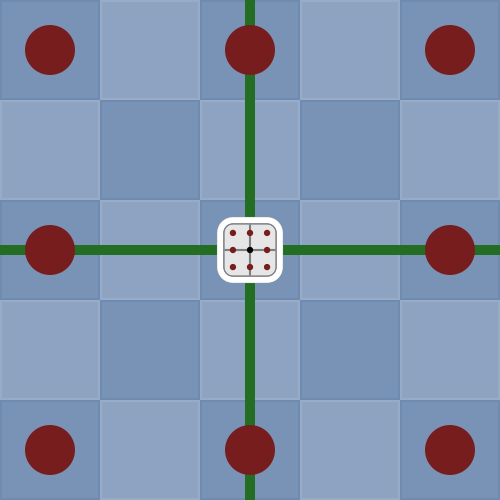
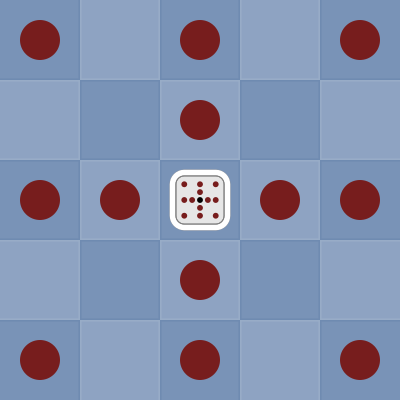
Updated Borderlands docs (#2106)
* Updated Borderlands docs.

* Updated Borderlands docs.

* Update borderlands.md

* Updated Borderlands docs

* Updated Borderlands docs.

* Updated Borderlands docs.

* Update borderlands.md

* Updated boards.

diff --git a/static/docs/borderlands.md b/static/docs/borderlands.md
@@ -25,35 +25,32 @@ Borderlands is a chess variant created by dpldgr in 2025 for PyChess' Variant De
 
 Borderlands draws inspiration from many classic variants (Chess, Shogi, Xiangqi, and Courier Chess) and fuses them together in a unique and creative way. Pieces are in general more powerful than those found in the classic variants.
 
-- The Chief (the "royal" piece) is very mobile, but has restricted movement which allows it to be cornered and captured.
 - Sliding pieces (Rooks, Bishops) and jump capturing pieces (Pao, Vao) are merged to create more powerful pieces (Archer, Slinger).
-- Most pieces are promotable, giving incentive to keep them on the board as every piece can help win the game by cornering and capturing enemy Chiefs or occupying Village Squares.
-- Players can't just push their pieces forward or they leave themselves exposed to a quick loss by conquest.
+- Most pieces are promotable, giving incentive to keep them on the board as every piece can help win the game by cornering and capturing enemy Chiefs.
 - There is a wide variety of pieces with different strengths and weaknesses.
 
 ## Historical Setting
 Borderlands is not set in a specific place or culture. Rather, it serves as an abstract representation of warfare as it evolved during the early Classical Antiquity period (approximately 500–100 BCE), following the decline of chariot warfare. It reflects the tactical emphasis on infantry formations, skirmishers, and emerging combined-arms warfare typical of that era.
 
 ## General Rules
-1.	White has the first move.
-2.	All pieces are capturable and are permanently removed from play upon capture.
-3.	There is no checkmate or stalemate in Borderlands.
-4.	There is no castling in Borderlands. On any move, a Chief can instead make a non-capturing leap two squares in any direction within their movement zone.
-5.	Pieces promote immediately upon reaching their Promotion Zone/Square.
-6.	Warriors starting on the 3rd rank may make a double step on their first move, and may be captured en passant on the enemy's next move.
+1.  White has the first move.
+2.  All pieces are capturable and are permanently removed from play upon capture.
+3.  There is no checkmate or stalemate in Borderlands.
+4.  There is no castling in Borderlands.
+5.  Pieces promote immediately upon reaching their Promotion Zone/Square.
+6.  Warriors starting on the 3rd rank may make a double step on their first move, and may be captured en passant on the enemy's next move.
 
 ## Win Conditions
-1.	Win by Surrender: Capture both enemy Chiefs and the enemy immediately surrenders.
-2.	Win by Conquest: Occupy all four Village Squares for two consecutive moves (one move by each player).
+1. Capture both enemy Chiefs and the enemy immediately surrenders.
 
 ## Draw Conditions
-1.	No Progress: 150 moves (75 by each player) without a capture or promotion.
-2.	Impasse: the game is unable to progress due to neither side having a realistic chance of occupying all four Village Squares or capturing both enemy Chiefs.
+1.  No Progress: 80 moves (40 by each player) without a capture or promotion.
+2.  Impasse: the game is unable to progress due to neither side having a realistic chance of capturing both enemy Chiefs.
 
 ## Lose Conditions
-1.	No Legal Moves: if a player cannot make a legal move they lose the game.
-2.	Perpetual Check: (TODO: confirm this works for Chiefs).
-3.	Move Repetition: repeating a position for the 5th time.
+1.  No Legal Moves: if a player cannot make a legal move they lose the game.
+2.  Perpetual Check: (TODO: confirm this works for Chiefs).
+3.  Move Repetition: repeating a position for the 5th time.
 
 ## The Board
 The empty board and initial position for Borderlands are as follows:
@@ -68,70 +65,36 @@ There are a number of important regions and squares in Borderlands:
 
 <table id="region_table" style="border-style: solid; border-width: 1px 0px; border-collapse: collapse;">
 <tbody>
-	<tr class="line_t"><td class="zone_highlight" rowspan="3"><img src="../static/images/BorderlandsGuide/WhiteTerritory.png" alt="White Territory"></td><td class="region_name">White Territory</td></tr>
-	<tr><td class="region_area">Ranks 1-5</td></tr>
-	<tr><td>All White pieces start the game within this region.</td></tr>
-	<tr class="line_t"><td class="zone_highlight" rowspan="3"><img src="../static/images/BorderlandsGuide/WhiteVillageZone.png" alt="White Village Zone"></td><td class="region_name">White Village Zone</td></tr>
-	<tr><td>Ranks 1-3</td></tr>
-	<tr><td>The majority of White pieces start the game in this region.</td></tr>
-	<tr class="line_t"><td class="zone_highlight" rowspan="3"><img src="../static/images/BorderlandsGuide/WhiteIncursionZone.png" alt="White Incursion Zone"></td><td class="region_name">White Incursion Zone</td></tr>
-	<tr><td>Ranks 6-7</td></tr>
-	<tr><td>White Marauders must come into play in this region. Black Warriors initially guard every single square of it.</td></tr>
-	<tr class="line_t"><td class="zone_highlight" rowspan="3"><img src="../static/images/BorderlandsGuide/WhitePromotionZone.png" alt="White Promotion Zone"></td><td class="region_name">White Promotion Zone</td></tr>
-	<tr><td>Ranks 8-10</td></tr>
-	<tr><td>All promotable White pieces (except the Lion) can promote anywhere within this region.</td></tr>
-	<tr class="line_t"><td class="zone_highlight" rowspan="2"><img src="../static/images/BorderlandsGuide/WhiteVillages.png" alt="White Villages"></td><td class="region_name">White Villages</td></tr>
-	<tr><td>South-West Village: a1,b1,c1,a2,b2,c2,a3,b3,c3<br/>South-East Village: g1,h1,i1,g2,h2,i2,g3,h3,i3</td></tr>
-	<tr class="line_t"><td class="zone_highlight" rowspan="2"><img src="../static/images/BorderlandsGuide/WhiteVillageSquares.png" alt="White Village Squares"></td><td class="region_name">White Village Squares</td></tr>
-	<tr><td>South-West Village Square: b2<br/>South-East Village Square: h2</td></tr>
-	<tr class="line_t"><td class="zone_highlight" rowspan="2"><img src="../static/images/BorderlandsGuide/WhiteLionsYard.png" alt="White Lion's Yard"></td><td class="region_name">White Lion's Yard</td></tr>
-	<tr><td>Squares: d1,e1,f1,d2,e2,f2,d3,e3,f3</td></tr>
-	<tr class="line_t"><td class="zone_highlight" rowspan="2"><img src="../static/images/BorderlandsGuide/WhiteLionsDen.png" alt="White Lion's Den"></td><td class="region_name">White Lion's Den</td></tr>
-	<tr><td>Square: e2</td></tr>
-	<tr class="line_t"><td class="zone_highlight" rowspan="3"><img src="../static/images/BorderlandsGuide/WhiteLionsIncursionSquares.png" alt="White Lion's Incursion Squares"></td><td class="region_name">White Lion's Incursion Squares</td></tr>
-	<tr><td>Squares: d7,f7</td></tr>
-	<tr><td>The White Lion must pass through one of these squares to promote.</td></tr>
-	<tr class="line_t"><td class="zone_highlight" rowspan="3"><img src="../static/images/BorderlandsGuide/WhiteLionsPromotionSquare.png" alt="White Lion's Promotion Square"></td><td class="region_name">White Lion's Promotion Square</td></tr>
-	<tr><td>Square: e9</td></tr>
-	<tr><td>The White Lion promotes upon reaching this square, and is then able to freely roam the entire board.</td></tr>
-	<tr class="line_t"><td class="zone_highlight" rowspan="3"><img src="../static/images/BorderlandsGuide/WhiteLionsMovementZone.png" alt="White Lion's Movement Zone"></td><td class="region_name">White Lion's Movement Zone</td></tr>
-	<tr><td>Zones: White Territory, White Lion's Incursion Zones, White Lion's Promotion Square</td></tr>
-	<tr><td></td></tr>
-	<tr class="line_t"><td class="zone_highlight" rowspan="3"><img src="../static/images/BorderlandsGuide/BlackTerritory.png" alt="Black Territory"></td><td class="region_name">Black Territory</td></tr>
-	<tr><td>Ranks 6-10</td></tr>
-	<tr><td>All Black pieces start the game within this region.</td></tr>
-	<tr class="line_t"><td class="zone_highlight" rowspan="3"><img src="../static/images/BorderlandsGuide/BlackVillageZone.png" alt="Black Village Zone"></td><td class="region_name">Black Village Zone</td></tr>
-	<tr><td>Ranks 8-10</td></tr>
-	<tr><td>The majority of Black pieces start the game in this region.</td></tr>
-	<tr class="line_t"><td class="zone_highlight" rowspan="3"><img src="../static/images/BorderlandsGuide/BlackIncursionZone.png" alt="Black Incursion Zone"></td><td class="region_name">Black Incursion Zone</td></tr>
-	<tr><td>Ranks 4-5</td></tr>
-	<tr><td>Black Marauders must come into play in this region. White Warriors initially guard every single square of it.</td></tr>
-	<tr class="line_t"><td class="zone_highlight" rowspan="3"><img src="../static/images/BorderlandsGuide/BlackPromotionZone.png" alt="Black Promotion Zone"></td><td class="region_name">Black Promotion Zone</td></tr>
-	<tr><td>Ranks 1-3</td></tr>
-	<tr><td>All promotable Black pieces (except the Lion) can promote anywhere within this region.</td></tr>
-	<tr class="line_t"><td class="zone_highlight" rowspan="2"><img src="../static/images/BorderlandsGuide/BlackVillages.png" alt="Black Villages"></td><td class="region_name">Black Villages</td></tr>
-	<tr><td>Noth-West Village: a8,b8,c8,a9,b9,c9,a10,b10,c10<br/>Noth-East Village: g8,h8,i8,g9,h9,i9,g10,h10,i10</td></tr>
-	<tr class="line_t"><td class="zone_highlight" rowspan="2"><img src="../static/images/BorderlandsGuide/BlackVillageSquares.png" alt="Black Village Squares"></td><td class="region_name">Black Village Squares</td></tr>
-	<tr><td>Noth-West Village Square: b9<br/>Noth-East Village Square: h9</td></tr>
-	<tr class="line_t"><td class="zone_highlight" rowspan="2"><img src="../static/images/BorderlandsGuide/BlackLionsYard.png" alt="Black Lion's Yard"></td><td class="region_name">Black Lion's Yard</td></tr>
-	<tr><td>Squares: d8,e8,f8,d9,e9,f9,d10,e10,f10</td></tr>
-	<tr class="line_t"><td class="zone_highlight" rowspan="2"><img src="../static/images/BorderlandsGuide/BlackLionsDen.png" alt="Black Lion's Den"></td><td class="region_name">Black Lion's Den</td></tr>
-	<tr><td>Square: e9</td></tr>
-	<tr class="line_t"><td class="zone_highlight" rowspan="3"><img src="../static/images/BorderlandsGuide/BlackLionsIncursionSquares.png" alt="Black Lion's Incursion Squares"></td><td class="region_name">Black Lion's Incursion Squares</td></tr>
-	<tr"><td>Squares: d4,f4</td></tr>
-	<tr><td>The Black Lion must pass through one of these squares to promote.</td></tr>
-	<tr class="line_t"><td class="zone_highlight" rowspan="3"><img src="../static/images/BorderlandsGuide/BlackLionsPromotionSquare.png" alt="Black Lion's Promotion Square"></td><td class="region_name">Black Lion's Promotion Square</td></tr>
-	<tr><td>Square: e2</td></tr>
-	<tr><td>The Black Lion promotes upon reaching this square, and is then able to freely roam the entire board.</td></tr>
-	<tr class="line_t"><td class="zone_highlight" rowspan="3"><img src="../static/images/BorderlandsGuide/BlackLionsMovementZone.png" alt="Black Lion's Movement Zone"></td><td class="region_name">Black Lion's Movement Zone</td></tr>
-	<tr><td>Zones: Black Territory, Black Lion's Incursion Zones, Black Lion's Promotion Square</td></tr>
-	<tr><td></td></tr>
-	<tr class="line_t"><td class="zone_highlight" rowspan="3"><img src="../static/images/BorderlandsGuide/Roads.png" alt="Roads"></td><td class="region_name">Roads</td></tr>
-	<tr><td>East Road Squares: a4,a5,a6,a7<br/>Middle Road Squares: e4,e5,e6,e7<br/>West Road Squares: i4,i5,i6,i7<br/></td></tr>
-	<tr><td>Roads connect the two Village Zones.</td></tr>
-	<tr class="line_t"><td class="zone_highlight" rowspan="3"><img src="../static/images/BorderlandsGuide/ChiefMovementZone.png" alt="Chief Movement Zone"></td><td class="region_name">Chief Movement Zone</td></tr>
-	<tr><td>Zones: White Village Zone, Black Village Zone, Roads</td></tr>
-	<tr class="line_b"><td>Chiefs are restricted to the two Village Zones and Roads.</td></tr>
+    <tr class="line_t"><td class="zone_highlight" rowspan="3"><img src="../static/images/BorderlandsGuide/WhiteTerritory.png" alt="White Territory"></td><td class="region_name">White Territory</td></tr>
+    <tr><td class="region_area">Ranks 1-5</td></tr>
+    <tr><td>All White pieces start the game within this region.</td></tr>
+    <tr class="line_t"><td class="zone_highlight" rowspan="3"><img src="../static/images/BorderlandsGuide/WhiteIncursionZone.png" alt="White Incursion Zone"></td><td class="region_name">White Incursion Zone</td></tr>
+    <tr><td>Ranks 6-7</td></tr>
+    <tr><td>White Marauders must come into play in this region. Black Warriors initially guard every single square of it.</td></tr>
+    <tr class="line_t"><td class="zone_highlight" rowspan="3"><img src="../static/images/BorderlandsGuide/WhitePromotionZone.png" alt="White Promotion Zone"></td><td class="region_name">White Promotion Zone</td></tr>
+    <tr><td>Ranks 8-10</td></tr>
+    <tr><td>All promotable White pieces (except the Lion) can promote anywhere within this region.</td></tr>
+    <tr class="line_t"><td class="zone_highlight" rowspan="3"><img src="../static/images/BorderlandsGuide/WhiteLionsMovementZone.png" alt="White Lion's Movement Zone"></td><td class="region_name">White Lion's Movement Zone</td></tr>
+    <tr><td>Zones: White Territory, White Lion's Incursion Zones, White Lion's Promotion Square</td></tr>
+    <tr><td></td></tr>
+    <tr class="line_t"><td class="zone_highlight" rowspan="3"><img src="../static/images/BorderlandsGuide/WhiteLionsPromotionSquare.png" alt="White Lion's Promotion Square"></td><td class="region_name">White Lion's Promotion Square</td></tr>
+    <tr><td>Square: e9</td></tr>
+    <tr><td>The White Lion promotes upon reaching this square, and is then able to freely roam the entire board.</td></tr>
+    <tr class="line_t"><td class="zone_highlight" rowspan="3"><img src="../static/images/BorderlandsGuide/BlackTerritory.png" alt="Black Territory"></td><td class="region_name">Black Territory</td></tr>
+    <tr><td>Ranks 6-10</td></tr>
+    <tr><td>All Black pieces start the game within this region.</td></tr>
+    <tr class="line_t"><td class="zone_highlight" rowspan="3"><img src="../static/images/BorderlandsGuide/BlackIncursionZone.png" alt="Black Incursion Zone"></td><td class="region_name">Black Incursion Zone</td></tr>
+    <tr><td>Ranks 4-5</td></tr>
+    <tr><td>Black Marauders must come into play in this region. White Warriors initially guard every single square of it.</td></tr>
+    <tr class="line_t"><td class="zone_highlight" rowspan="3"><img src="../static/images/BorderlandsGuide/BlackPromotionZone.png" alt="Black Promotion Zone"></td><td class="region_name">Black Promotion Zone</td></tr>
+    <tr><td>Ranks 1-3</td></tr>
+    <tr><td>All promotable Black pieces (except the Lion) can promote anywhere within this region.</td></tr>
+    <tr class="line_t"><td class="zone_highlight" rowspan="3"><img src="../static/images/BorderlandsGuide/BlackLionsMovementZone.png" alt="Black Lion's Movement Zone"></td><td class="region_name">Black Lion's Movement Zone</td></tr>
+    <tr><td>Zones: Black Territory, Black Lion's Incursion Zones, Black Lion's Promotion Square</td></tr>
+    <tr><td></td></tr>
+    <tr class="line_t"><td class="zone_highlight" rowspan="3"><img src="../static/images/BorderlandsGuide/BlackLionsPromotionSquare.png" alt="Black Lion's Promotion Square"></td><td class="region_name">Black Lion's Promotion Square</td></tr>
+    <tr><td>Square: e2</td></tr>
+    <tr><td>The Black Lion promotes upon reaching this square, and is then able to freely roam the entire board.</td></tr>
 </tbody>
 </table>
 
@@ -140,70 +103,66 @@ There are a number of important regions and squares in Borderlands:
 The movement diagrams below follow these conventions:
 <table style="border-collapse: collapse;">
 <tbody>
-	<tr><td width="15%"><img src="../static/images/BorderlandsGuide/RedCircle.png" alt="Red Circle"></td><td class="piece_movement" style="text-align: left;">Red Circle: can make both capturing and non-capturing moves to this square unimpeded.</td></tr>
-	<tr><td width="15%"><img src="../static/images/BorderlandsGuide/GreenCircle.png" alt="Green Circle"></td><td class="piece_movement" style="text-align: left;">Green Circle: can make a non-capturing move to this square unimpeded.</td></tr>
-	<tr><td width="15%"><img src="../static/images/BorderlandsGuide/BlueCircle.png" alt="Blue Circle"></td><td class="piece_movement" style="text-align: left;">Blue Circle: can make a capturing move to this square unimpeded.</td></tr>
-	<tr><td width="15%"><img src="../static/images/BorderlandsGuide/GreenLine.png" alt="Green Line"></td><td class="piece_movement" style="text-align: left;">Green Line: can make a non-capturing slide up to three squares.</td></tr>
-	<tr><td width="15%"><img src="../static/images/BorderlandsGuide/TealLine.png" alt="Teal Line"></td><td class="piece_movement" style="text-align: left;">Teal Line: can make both a capturing and non-capturing sliding move, or jump a piece and capture in a manner similar to a Cannon.</td></tr>
+    <tr><td width="15%"><img src="../static/images/BorderlandsGuide/RedCircle.png" alt="Red Circle"></td><td class="piece_movement" style="text-align: left;">Red Circle: can make both capturing and non-capturing moves to this square unimpeded.</td></tr>
+    <tr><td width="15%"><img src="../static/images/BorderlandsGuide/BlueCircle.png" alt="Blue Circle"></td><td class="piece_movement" style="text-align: left;">Blue Circle: can make a capturing move to this square unimpeded.</td></tr>
+    <tr><td width="15%"><img src="../static/images/BorderlandsGuide/TealLine.png" alt="Teal Line"></td><td class="piece_movement" style="text-align: left;">Teal Line: can make both a capturing and non-capturing sliding move, or jump a piece and capture in a manner similar to a Cannon.</td></tr>
 </tbody>
 </table>
 
 <table style="border-collapse: collapse;">
 <tbody>
-	<tr><td width="25%"></td><td class="piece_title" width="50%" style="background-color:#d4c7e3;color:#000000">Chief (C)</td><td width="25%"></td></tr>
-	<tr><td width="25%"></td><td><img src="../static/images/BorderlandsGuide/Chief.png" alt="Chief"><br/>Betza: KmNmAmD</td><td width="25%"></td></tr>
-	<tr><td colspan="3">Chiefs are the most valuable pieces on the board. Capture both of the enemy Chiefs and your enemy immediately surrenders.<p/>Chiefs are restricted to the Village Zones and the Roads connecting them.<p/></td><td></td><td></td></tr>
-	<tr><td width="25%"></td><td class="piece_title" style="background-color:#e6e6e6;color:#000000">Guard (G)</td><td width="25%"></td></tr>
-	<tr><td width="25%"></td><td><img src="../static/images/BorderlandsGuide/Guard.png" alt="Guard"><br/>Betza: KmNmAmD</td><td width="25%"></td></tr>
-	<tr><td colspan="3">Guards are the only pieces that don't promote and are free to roam the entire board from the start of the game. Their role is to protect the allied Chiefs through any means necessary.<p/></td><td></td><td></td></tr>
+    <tr><td width="25%"></td><td class="piece_title" width="50%" style="background-color:#d4c7e3;color:#000000">Chief (C)</td><td width="25%"></td></tr>
+    <tr><td width="25%"></td><td><img src="../static/images/BorderlandsGuide/Chief.png" alt="Chief"><br/>Betza: K</td><td width="25%"></td></tr>
+    <tr><td colspan="3">Chiefs are the most valuable pieces on the board. Capture both of the enemy Chiefs and your enemy immediately surrenders.</td><td></td><td></td></tr>
 </tbody>
 </table>
 <table style="border-collapse: collapse;">
 <tbody>
-	<tr><td class="piece_title" style="background-color:#e6e6e6;color:#000000"><span class="piece_title_nowrap">Marauder (M)</span></td><td class="piece_title" style="background-color:#f7e6ae;color:#000000">Promoted <span class="piece_title_nowrap">Marauder (+M)</span></td></tr>
-	<tr><td><img src="../static/images/BorderlandsGuide/Marauder.png" alt="Marauder"><br/>Betza: FmN</td><td><img src="../static/images/BorderlandsGuide/MarauderPromoted.png" alt="Marauder Promoted"><br/>Betza: KmN</td></tr>
-	<tr><td colspan="2">The Marauder's role is to disrupt the enemy through any means necessary. They can very quickly slip behind enemy lines if there are small holes in the enemy's defenses.
+    <tr><td class="piece_title" style="background-color:#e6e6e6;color:#000000"><span class="piece_title_nowrap">Marauder (M)</span></td><td class="piece_title" style="background-color:#f7e6ae;color:#000000">Promoted <span class="piece_title_nowrap">Marauder (+M)</span></td></tr>
+    <tr><td><img src="../static/images/BorderlandsGuide/Marauder.png" alt="Marauder"><br/>Betza: F</td><td><img src="../static/images/BorderlandsGuide/MarauderPromoted.png" alt="Marauder Promoted"><br/>Betza: K</td></tr>
+    <tr><td colspan="2">The Marauder's role is to disrupt the enemy through any means necessary. They can very quickly slip behind enemy lines if there are small holes in the enemy's defenses.
 <p/>
 Marauders start the game in hand, and must come into play by being dropped into their Incursion Zone, and can often promote on their next move.<p/>
-They can move like a Ferz (F), and make a non-capturing jump like a Knight (mN). Upon promotion, Marauders gain the ability to make one step orthogonally (W).</td><td></td></tr>
-	<tr><td class="piece_title" style="background-color:#e6e6e6;color:#000000"><span class="piece_title_nowrap">Falcon (F)</span></td><td class="piece_title" style="background-color:#f7e6ae;color:#000000">Promoted <span class="piece_title_nowrap">Falcon (+F)</span></td></tr>
-	<tr><td><img src="../static/images/BorderlandsGuide/Falcon.png" alt="Falcon"><br/>Betza: WmAmD</td><td><img src="../static/images/BorderlandsGuide/FalconPromoted.png" alt="Falcon Promoted"><br/>Betza: KmAmD</td></tr>
-	<tr><td colspan="2">They can move like a Wazir (W), and make a non-capturing jump like a Alfil or Dabbaba (mAmD). Upon promotion, Falcons gain the ability to make one step diagonally (F).<p/></td><td></td></tr>
-	<tr><td class="piece_title" style="background-color:#e6e6e6;color:#000000"><span class="piece_title_nowrap">Elephant (E)</span></td><td class="piece_title" style="background-color:#f7e6ae;color:#000000">Promoted <span class="piece_title_nowrap">Elephant (+E)</span></td></tr>
-	<tr><td><img src="../static/images/BorderlandsGuide/Elephant.png" alt="Elephant"><br/>Betza: ADmR3</td><td><img src="../static/images/BorderlandsGuide/ElephantPromoted.png" alt="Elephant Promoted"><br/>Betza: ADmR3WmF</td></tr>
-	<tr><td colspan="2">Elephants are jumping pieces. They can move like a Alfil or Dabbaba (AD), and make a non-capturing slide like a Rook up to three squares (mR3). Upon promotion, Elephants gain the ability to make one step orthogonally (W), and one non-capturing step diagonally (mF).<p/></td><td></td></tr>
-	<tr><td class="piece_title" style="background-color:#e6e6e6;color:#000000"><span class="piece_title_nowrap">Horse (H)</span></td><td class="piece_title" style="background-color:#f7e6ae;color:#000000">Promoted <span class="piece_title_nowrap">Horse (+H)</span></td></tr>
-	<tr><td><img src="../static/images/BorderlandsGuide/Horse.png" alt="Horse"><br/>Betza: NmB3</td><td><img src="../static/images/BorderlandsGuide/HorsePromoted.png" alt="Horse Promoted"><br/>Betza: NmB3FmW</td></tr>
-	<tr><td colspan="2">Horses are jumping pieces. They can move like a Knight (N), and make a non-capturing slide like a Bishop up to three squares (mB3). Upon promotion, Horses gain the ability to make one step diagonally (F), and one non-capturing step orthogonally (mW).<p/></td><td></td></tr>
-	<tr><td class="piece_title" style="background-color:#e6e6e6;color:#000000"><span class="piece_title_nowrap">Slinger (S)</span></td><td class="piece_title" style="background-color:#f7e6ae;color:#000000">Promoted <span class="piece_title_nowrap">Slinger (+S)</span></td></tr>
-	<tr><td><img src="../static/images/BorderlandsGuide/Slinger.png" alt="Slinger"><br/>Betza: BcpBmW</td><td><img src="../static/images/BorderlandsGuide/SlingerPromoted.png" alt="Slinger Promoted"><br/>Betza: BcpBW</td></tr>
-	<tr><td colspan="2">Slingers are long range pieces able to attack from afar along diagonal lines. They can move like a Bishop (B), capture like a Vao (cpB), and also make one non-capturing step orthogonally (mW). Upon promotion, Slingers gain the ability to make one capturing step orthogonally (W).<p/></td><td></td></tr>
-	<tr><td class="piece_title" style="background-color:#e6e6e6;color:#000000"><span class="piece_title_nowrap">Archer (A)</span></td><td class="piece_title" style="background-color:#f7e6ae;color:#000000">Promoted <span class="piece_title_nowrap">Archer (+A)</span></td></tr>
-	<tr><td><img src="../static/images/BorderlandsGuide/Archer.png" alt="Archer"><br/>Betza: RcpRmF</td><td><img src="../static/images/BorderlandsGuide/ArcherPromoted.png" alt="Archer Promoted"><br/>Betza: RcpRF</td></tr>
-	<tr><td colspan="2">Archers are long range pieces able to attack from afar along orthogonal lines. They can move like a Rook (R), capture like a Pao (cpR), and also make one non-capturing step diagonally (mF). Upon promotion, Archers gain the ability to make one capturing step diagonally (F).<p/></td><td></td></tr>
-	<tr><td class="piece_title" style="background-color:#e6e6e6;color:#000000"><span class="piece_title_nowrap">Warrior (W)</span></td><td class="piece_title" style="background-color:#f7e6ae;color:#000000">Promoted <span class="piece_title_nowrap">Warrior (+W)</span></td></tr>
-	<tr><td><img src="../static/images/BorderlandsGuide/Warrior.png" alt="Warrior"><br/>Betza: fWfceFifmnD</td><td><img src="../static/images/BorderlandsGuide/WarriorPromoted.png" alt="Warrior Promoted"><br/>Betza: NADmQ3</td></tr>
-	<tr><td colspan="2">Warriors can move like both a Chess Pawn (fmWfceFifmnD) and a Shogi Pawn (fW). Warriors starting on the 3rd rank may make a double step on their first move, and may be captured en passant by an enemy Warrior on the enemy's next move. Upon promotion, the Warrior's movement changes.<p/>A Promoted Warrior can move like a Knight, Alfil, or Dabbaba, and can make a non-capturing slide like a Queen up to three squares (mQ3).<p/></td><td></td></tr>
-	<tr><td class="piece_title" style="background-color:#e6e6e6;color:#000000"><span class="piece_title_nowrap">Lion (L)</span></td><td class="piece_title" style="background-color:#f7e6ae;color:#000000">Promoted <span class="piece_title_nowrap">Lion (+L)</span></td></tr>
-	<tr><td><img src="../static/images/BorderlandsGuide/Lion.png" alt="Lion"><br/>Betza: KNAD</td><td><img src="../static/images/BorderlandsGuide/LionPromoted.png" alt="Lion Promoted"><br/>Betza: KNAD</td></tr>
-	<tr><td colspan="2">Lions start the game as a defensive piece restricted to their side's Territory, and have a very limited path to promotion (via the Lion's Incursion Squares) that is easily defended against. Upon promotion, Lions gain the ability to roam the entire board.<p/></td><td></td></tr>
+They can move like a Ferz (F). Upon promotion, Marauders gain the ability to make one step orthogonally (W).</td><td></td></tr>
+    <tr><td class="piece_title" style="background-color:#e6e6e6;color:#000000"><span class="piece_title_nowrap">Falcon (F)</span></td><td class="piece_title" style="background-color:#f7e6ae;color:#000000">Promoted <span class="piece_title_nowrap">Falcon (+F)</span></td></tr>
+    <tr><td><img src="../static/images/BorderlandsGuide/Falcon.png" alt="Falcon"><br/>Betza: W</td><td><img src="../static/images/BorderlandsGuide/FalconPromoted.png" alt="Falcon Promoted"><br/>Betza: K</td></tr>
+    <tr><td colspan="2">They can move like a Wazir (W). Upon promotion, Falcons gain the ability to make one step diagonally (F).<p/></td><td></td></tr>
+    <tr><td class="piece_title" style="background-color:#e6e6e6;color:#000000"><span class="piece_title_nowrap">Elephant (E)</span></td><td class="piece_title" style="background-color:#f7e6ae;color:#000000">Promoted <span class="piece_title_nowrap">Elephant (+E)</span></td></tr>
+    <tr><td><img src="../static/images/BorderlandsGuide/Elephant.png" alt="Elephant"><br/>Betza: WAD</td><td><img src="../static/images/BorderlandsGuide/ElephantPromoted.png" alt="Elephant Promoted"><br/>Betza: KAD</td></tr>
+    <tr><td colspan="2">Elephants are jumping pieces. They can move like a Wazir, Alfil, or Dabbaba (WAD). Upon promotion, Elephants gain the ability to move like a King (K).<p/></td><td></td></tr>
+    <tr><td class="piece_title" style="background-color:#e6e6e6;color:#000000"><span class="piece_title_nowrap">Horse (H)</span></td><td class="piece_title" style="background-color:#f7e6ae;color:#000000">Promoted <span class="piece_title_nowrap">Horse (+H)</span></td></tr>
+    <tr><td><img src="../static/images/BorderlandsGuide/Horse.png" alt="Horse"><br/>Betza: NF</td><td><img src="../static/images/BorderlandsGuide/HorsePromoted.png" alt="Horse Promoted"><br/>Betza: NK</td></tr>
+    <tr><td colspan="2">Horses are jumping pieces. They can move like a Knight or Ferz (NF). Upon promotion, Horses gain the ability to move like a King (K).<p/></td><td></td></tr>
+    <tr><td class="piece_title" style="background-color:#e6e6e6;color:#000000"><span class="piece_title_nowrap">Slinger (S)</span></td><td class="piece_title" style="background-color:#f7e6ae;color:#000000">Promoted <span class="piece_title_nowrap">Slinger (+S)</span></td></tr>
+    <tr><td><img src="../static/images/BorderlandsGuide/Slinger.png" alt="Slinger"><br/>Betza: BcpB</td><td><img src="../static/images/BorderlandsGuide/SlingerPromoted.png" alt="Slinger Promoted"><br/>Betza: BcpBW</td></tr>
+    <tr><td colspan="2">Slingers are long range pieces able to attack from afar along diagonal lines. They can move like a Bishop (B) or capture like a Vao (cpB). Upon promotion, Slingers gain the ability to move like a Wazir (W).<p/></td><td></td></tr>
+    <tr><td class="piece_title" style="background-color:#e6e6e6;color:#000000"><span class="piece_title_nowrap">Archer (A)</span></td><td class="piece_title" style="background-color:#f7e6ae;color:#000000">Promoted <span class="piece_title_nowrap">Archer (+A)</span></td></tr>
+    <tr><td><img src="../static/images/BorderlandsGuide/Archer.png" alt="Archer"><br/>Betza: RcpR</td><td><img src="../static/images/BorderlandsGuide/ArcherPromoted.png" alt="Archer Promoted"><br/>Betza: RcpRF</td></tr>
+    <tr><td colspan="2">Archers are long range pieces able to attack from afar along orthogonal lines. They can move like a Rook (R) or capture like a Pao (cpR). Upon promotion, Archers gain the ability to move like a Ferz (F).<p/></td><td></td></tr>
+    <tr><td class="piece_title" style="background-color:#e6e6e6;color:#000000"><span class="piece_title_nowrap">Warrior (W)</span></td><td class="piece_title" style="background-color:#f7e6ae;color:#000000">Promoted <span class="piece_title_nowrap">Warrior (+W)</span></td></tr>
+    <tr><td><img src="../static/images/BorderlandsGuide/Warrior.png" alt="Warrior"><br/>Betza: fWfceFifmnD</td><td><img src="../static/images/BorderlandsGuide/WarriorPromoted.png" alt="Warrior Promoted"><br/>Betza: NK</td></tr>
+    <tr><td colspan="2">Warriors can move like both a Chess Pawn (fmWfceFifmnD) and a Shogi Pawn (fW). Warriors starting on the 3rd rank may make a double step on their first move, and may be captured en passant by an enemy Warrior on the enemy's next move. Upon promotion, the Warrior's movement changes.<p/>A Promoted Warrior can move like a Knight or Ferz (NF).<p/></td><td></td></tr>
+    <tr><td class="piece_title" style="background-color:#e6e6e6;color:#000000"><span class="piece_title_nowrap">Lion (L)</span></td><td class="piece_title" style="background-color:#f7e6ae;color:#000000">Promoted <span class="piece_title_nowrap">Lion (+L)</span></td></tr>
+    <tr><td><img src="../static/images/BorderlandsGuide/Lion.png" alt="Lion"><br/>Betza: KNAD</td><td><img src="../static/images/BorderlandsGuide/LionPromoted.png" alt="Lion Promoted"><br/>Betza: KNAD</td></tr>
+    <tr><td colspan="2">Lions start the game as a defensive piece restricted to their side's Territory, and have a very limited path to promotion (via the Lion's Incursion Squares) that is easily defended against. Upon promotion, Lions gain the ability to roam the entire board.<p/></td><td></td></tr>
 </tbody>
 </table>
 ### Piece Values
 <table  style="border-collapse: collapse; border: 1px solid;">
 <tbody>
-	<tr><td class="piece_values"><b>Piece</b></td><td class="piece_values"><b>Notation</b></td><td class="piece_values"><b>Value</b></td><td class="piece_values"><b>Piece</b></td><td class="piece_values"><b>Notation</b></td><td class="piece_values"><b>Value</b></td></tr>
-	<tr><td class="piece_values">Promoted Lion</td><td class="piece_values">+L</td><td class="piece_values">9.45</td><td class="piece_values">Chief</td><td class="piece_values">C</td><td class="piece_values">3.11</td></tr>
-	<tr><td class="piece_values">Promoted Archer</td><td class="piece_values">+A</td><td class="piece_values">8.82</td><td class="piece_values">Promoted Falcon</td><td class="piece_values">+F</td><td class="piece_values">2.51</td></tr>
-	<tr><td class="piece_values">Promoted Warrior</td><td class="piece_values">+W</td><td class="piece_values">6.75</td><td class="piece_values">Guard</td><td class="piece_values">G</td><td class="piece_values">2.17</td></tr>
-	<tr><td class="piece_values">Archer</td><td class="piece_values">A</td><td class="piece_values">5.77</td><td class="piece_values">Horse</td><td class="piece_values">H</td><td class="piece_values">2.16</td></tr>
-	<tr><td class="piece_values">Promoted Slinger</td><td class="piece_values">+S</td><td class="piece_values">4.88</td><td class="piece_values">Elephant</td><td class="piece_values">E</td><td class="piece_values">2.12</td></tr>
-	<tr><td class="piece_values">Lion</td><td class="piece_values">L</td><td class="piece_values">4.14</td><td class="piece_values">Promoted Marauder</td><td class="piece_values">+M</td><td class="piece_values">1.51</td></tr>
-	<tr><td class="piece_values">Promoted Horse</td><td class="piece_values">+H</td><td class="piece_values">3.94</td><td class="piece_values">Warrior</td><td class="piece_values">W</td><td class="piece_values">1.00</td></tr>
-	<tr><td class="piece_values">Slinger</td><td class="piece_values">S</td><td class="piece_values">3.81</td><td class="piece_values">Falcon</td><td class="piece_values">F</td><td class="piece_values">0.90</td></tr>
-	<tr><td class="piece_values">Promoted Elephant</td><td class="piece_values">+E</td><td class="piece_values">3.61</td><td class="piece_values">Marauder</td><td class="piece_values">M</td><td class="piece_values">0.65</td></tr>
+    <tr><td class="piece_values"><b>Piece</b></td><td class="piece_values"><b>Notation</b></td><td class="piece_values"><b>Value</b></td><td class="piece_values"><b>Piece</b></td><td class="piece_values"><b>Notation</b></td><td class="piece_values"><b>Value</b></td></tr>
+    <tr><td class="piece_values">Promoted Lion</td><td class="piece_values">+L</td><td class="piece_values">7.49</td><td class="piece_values">Chief</td><td class="piece_values">C</td><td class="piece_values">3.40</td></tr>
+    <tr><td class="piece_values">Promoted Archer</td><td class="piece_values">+A</td><td class="piece_values">6.16</td><td class="piece_values">Slinger</td><td class="piece_values">S</td><td class="piece_values">3.36</td></tr>
+    <tr><td class="piece_values">Promoted Warrior</td><td class="piece_values">+W</td><td class="piece_values">5.87</td><td class="piece_values">Elephant</td><td class="piece_values">E</td><td class="piece_values">3.21</td></tr>
+    <tr><td class="piece_values">Promoted Horse</td><td class="piece_values">+H</td><td class="piece_values">5.48</td><td class="piece_values">Lion</td><td class="piece_values">L</td><td class="piece_values">3.11</td></tr>
+    <tr><td class="piece_values">Promoted Elephant</td><td class="piece_values">+E</td><td class="piece_values">4.87</td><td class="piece_values">Promoted Marauder</td><td class="piece_values">+M</td><td class="piece_values">2.31</td></tr>
+    <tr><td class="piece_values">Archer</td><td class="piece_values">A</td><td class="piece_values">4.77</td><td class="piece_values">Warrior</td><td class="piece_values">W</td><td class="piece_values">1.34</td></tr>
+    <tr><td class="piece_values">Promoted Slinger</td><td class="piece_values">+S</td><td class="piece_values">4.16</td><td class="piece_values">Marauder</td><td class="piece_values">M</td><td class="piece_values">0.88</td></tr>
+    <tr><td class="piece_values">Promoted Falcon</td><td class="piece_values">+F</td><td class="piece_values">4.01</td><td class="piece_values">Falcon</td><td class="piece_values">F</td><td class="piece_values">0.79</td></tr>
+    <tr><td class="piece_values">Horse</td><td class="piece_values">H</td><td class="piece_values">3.48</td><td class="piece_values"></td><td class="piece_values"></td><td class="piece_values"></td></tr>
 </tbody>
 </table>
+
 <img src="../static/images/BorderlandsGuide/PieceValues.png" alt="Piece Values">
 
 ## Strategy
